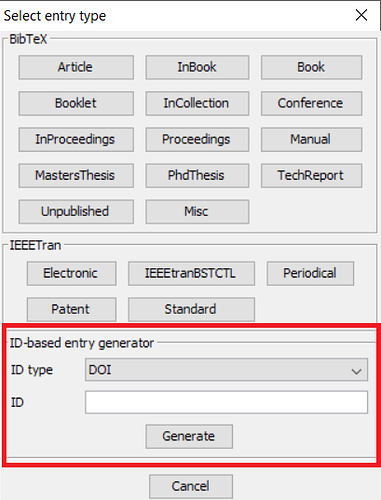
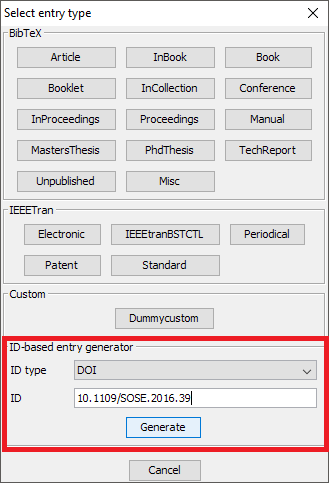
minor changes and new screenshots for id based entry generation pages

Changed region(s): [[0.0, 0.0, 1.0, 1.0]]

diff --git a/en/DiVAtoBibTeX.md b/en/DiVAtoBibTeX.md
@@ -1,20 +1,19 @@
 ---
 title: Creating entries from DiVA
 helpCategories: ["Fetching entries from the web", "... using publication identifiers"]
-since: 3.6
+since: 3.7
 ---
 
-# Fetching entries from DiVA
+# Creating entries from DiVA
 
 [DiVA (Digitala Vetenskapliga Arkivet)](http://www.diva-portal.org/) is a database with publications from about [40](www.diva-portal.org/smash/aboutdiva.jsf) Swedish universities and research institutions.
 
 To use this feature, choose **BibTeX -&gt; New entry...**.
 In the lower part, there is the box "ID-based entry generator".
-In the field "ID type", "DiVA" should be already selected.
-The field "ID" is focused.
-Enter the DiVA here (e.g., `diva2:260746`) and press <kbd>Enter</kbd> to generate an entry based on the Id.
+In the field "ID type", "DiVA" can be selected (see screenshot below).
+Select the field "ID" and enter the DiVA here (e.g., `diva2:260746`) and press <kbd>Enter</kbd> to generate an entry based on the Id.
 You can also click on "Generate".
 The found entry is opened in an entry editor.
 In case an error occurs, a popup is shown.
 
-![Screenshot of new entry dialog](./images/NewEntryChooseType-IDGeneratorHighlighted.png)
+![Screenshot of new entry dialog](./images/NewEntryChooseType-IDGeneratorHighlighted-Diva.png)

diff --git a/en/ISBNtoBibTeX.md b/en/ISBNtoBibTeX.md
@@ -1,14 +1,14 @@
 ---
 title: Creating entries using an ISBN number
 helpCategories: ["Fetching entries from the web", "... using publication identifiers"]
-since: 3.6
+since: 3.7
 ---
 
 # Creating entries using an ISBN number
 
 To use this feature, choose **BibTeX -&gt; New entry...**.
 In the lower part, there is the box "ID-based entry generator".
-In the field "ID type", "ISBN" should be already selected.
+In the field "ID type", you can select "ISBN".
 The field "ID" is focused.
 Enter the ISBN here and press <kbd>Enter</kbd> to generate an entry based on the Id.
 You can also click on "Generate".
@@ -19,4 +19,4 @@ In case an error occurs, a popup is shown.
 The JabRef team is aware that not all valid ISBNs lead to an entry being generated by this generator.
 See <https://github.com/JabRef/jabref/issues/2238> for a discussion of alternatives.
 
-![Screenshot of new entry dialog](./images/NewEntryChooseType-IDGeneratorHighlighted.png)
+![Screenshot of new entry dialog](./images/NewEntryChooseType-IDGeneratorHighlighted-ISBN.png)

diff --git a/en/DOItoBibTeX.md b/en/DOItoBibTeX.md
@@ -1,7 +1,7 @@
 ---
 title: Creating entries using the Digital Object Identifier (DOI)
 helpCategories: ["Fetching entries from the web", "... using publication identifiers"]
-since: 3.6
+since: 3.7
 ---
 
 # Creating entries using the Digital Object Identifier (DOI)
